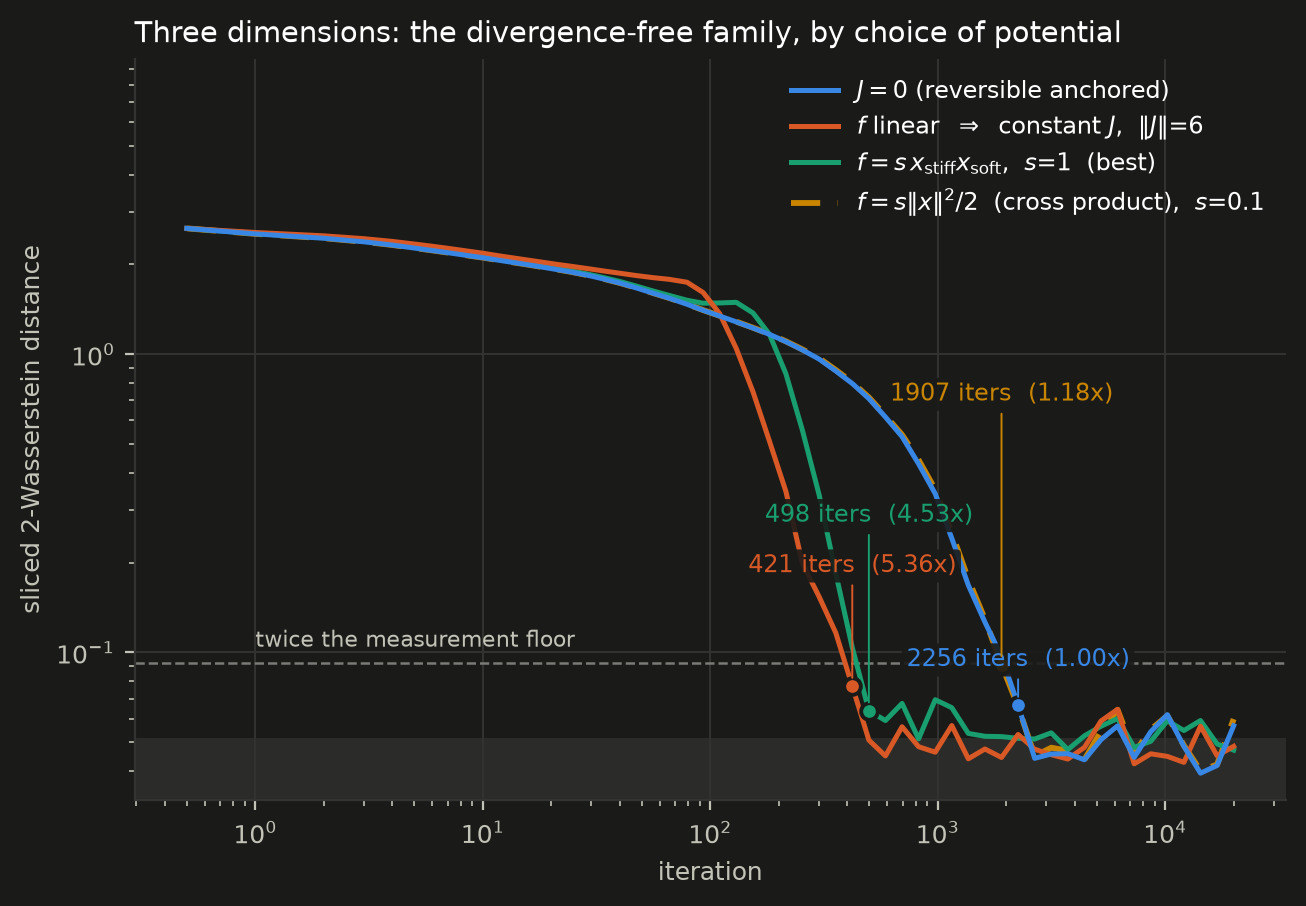
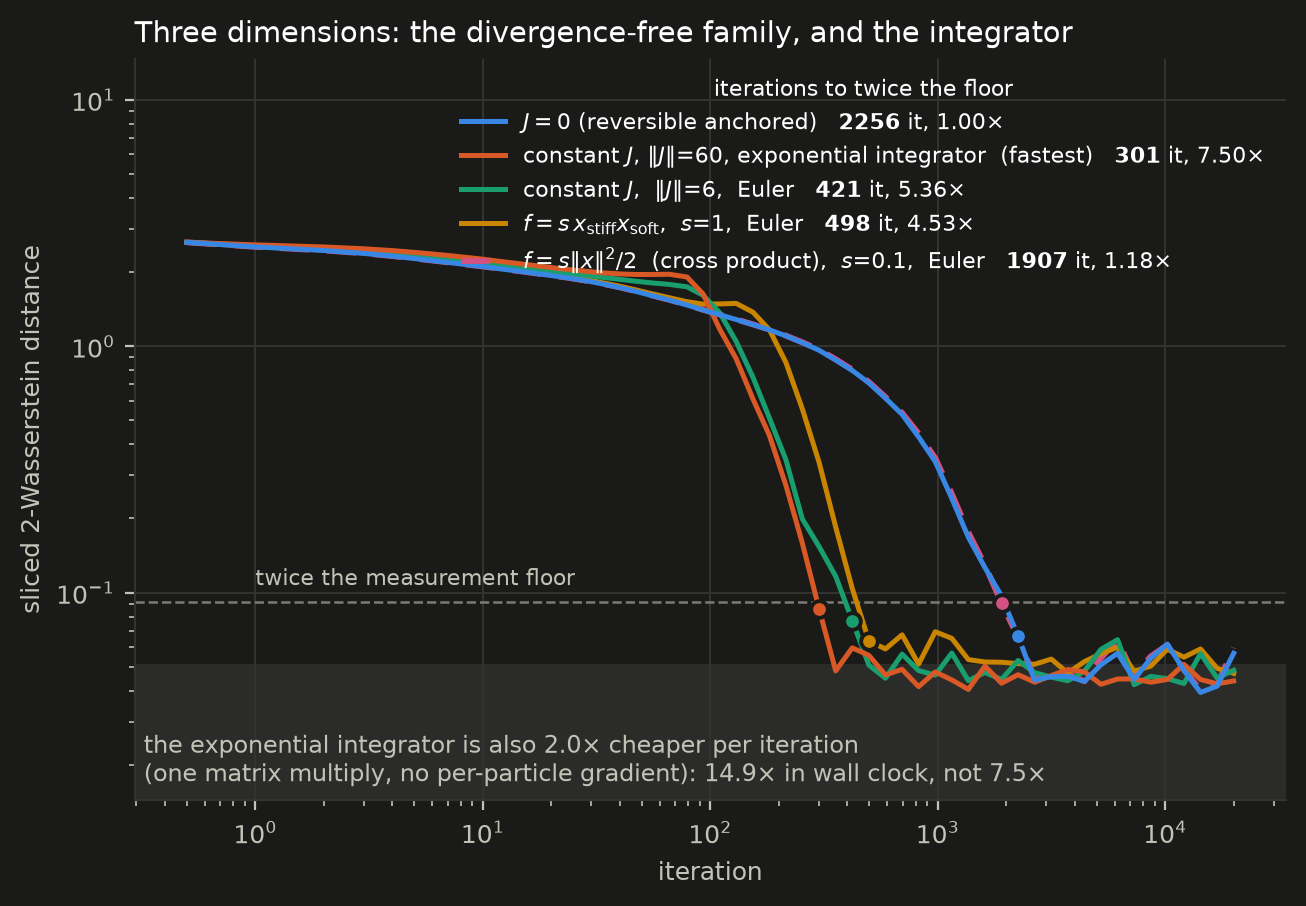
The integrator, not the potential: 14.9x in wall clock, and still monotone
Every d=3 row so far ran the paper's explicit Euler scheme. That was the cap
on the whole comparison. Euler amplifies a rotation by sqrt(1+theta^2) per
step, so a stronger field forces a smaller stepsize and the constant field's
optimum lands at |J| ~ 3.5. The exponential integrator advances the linear
drift outright and pays no such penalty. From the exact second-moment
recursion at 2% covariance bias, with no Monte Carlo in it:

    |J|            3.5     7      12     20     30     60     90
    Euler         3.57x  2.98x  1.94x  0.60x  0.34x    -      -
    Cayley        3.54x  6.21x  7.33x  7.03x  6.26x  4.41x  3.33x
    exponential   3.54x  6.32x  7.74x  8.07x  8.15x  8.19x  8.19x

Euler peaks early and then loses; the exponential integrator plateaus, because
its stepsize is set by the noise treatment alone and stops caring about |J|.

Measured on the same equal-accuracy protocol, and hump-free:

    J = 0, Euler                        2256 it  1.00x   1.037 ms/it   1.00x wall
    constant |J|=6,  Euler  (before)     421 it  5.36x   1.094 ms/it   5.08x wall
    constant |J|=60, exponential         301 it  7.50x   0.522 ms/it  14.88x wall
    f = s x_stiff x_soft, s=1, Euler     498 it  4.53x   1.267 ms/it   3.71x wall

Two gains, the second larger than the first. Fewer iterations, because the
field can be run ten times stronger. And half the cost per iteration: for a
constant field on a log-quadratic target with the canonical anchor the drift
[…]

diff --git a/experiments/exp10_curl_potentials.py b/experiments/exp10_curl_potentials.py
@@ -104,6 +104,15 @@ def main():
                     help="warm-up length for a CONSTANT field, in relaxations of "
                          "the fastest direction; 10 leaves no hump in d=3 and "
                          "costs no iterations")
+    ap.add_argument("--ramp-expm", type=float, default=25.0,
+                    help="warm-up for the constant field under the exponential "
+                         "integrator, which is run much stronger than the Euler "
+                         "one and so has a larger transient")
+    ap.add_argument("--expm-jnorm", type=float, default=60.0,
+                    help="field strength for the exponential integrator. Euler "
+                         "is stepsize-limited and its optimum is |J| ~ 3.5; expm "
+                         "is not, and the exact analysis has it still gaining at "
+                         "|J| = 90")
     ap.add_argument("--ramp-growth", type=float, default=40.0,
                     help="warm-up length for a field whose strength grows with "
                          "|x| (both non-constant potentials here). Measured: at "
@@ -137,10 +146,18 @@ def main():
     print(f"  sliced-W2 floor at n={args.n}: {floor:.4f} +- {fstd:.4f}")
     print(f"  optimal constant field |J| = {nopt:.2f}\n")
 
+    # Warm-up length per field kind, in relaxations of the fastest direction.
+    # A constant field advanced by Euler wants 10; the same field advanced by
+    # the exponential integrator is run an order of magnitude stronger, so its
+    # transient is correspondingly larger and it wants 25; a field whose
+    # strength grows with |x| wants 40 (see the module docstring).
+    RAMP_OF = {"linear": args.ramp, "expm": args.ramp_expm,
+               "sphere": args.ramp_growth, "hyper": args.ramp_growth}
+
     def field(kind, mag):
         if kind == "zero":
             return None
-        if kind == "linear":                       # a constant J
+        if kind in ("linear", "expm"):             # a constant J
             return sf.ConstantSkew(mag * Jopt / nopt)
         if kind == "sphere":                       # f = s |x|^2 / 2
             return GradCurl(lambda x, s=mag: s * x)
@@ -149,7 +166,7 @@ def main():
                                                   + np.outer(x @ e_soft, e_stiff)))
         raise ValueError(kind)
 
-    def make(fld, eta, kind="linear"):
+    def make(fld, eta, kind="linear", integ="euler"):
         # The ramp length is computed from the target's stiff relaxation time,
         # a property of the *linear* drift.  Both non-constant potentials here
         # have grad f linear in x, so their field strength is proportional to
@@ -161,9 +178,9 @@ def main():
         if fld is None:
             sch = None
         else:
-            n_relax = args.ramp if kind == "linear" else args.ramp_growth
+            n_relax = RAMP_OF[kind]
             sch = samplers.warmup_schedule(T, eta, n_relax)
-        return lambda: samplers.field_anchored_step(T, eta, fld, "euler", schedule=sch)
+        return lambda: samplers.field_anchored_step(T, eta, fld, integ, schedule=sch)
 
     def qbias(mk, n=12000, burn=2500, avg=1500, seed=11):
         if args.smoke:
@@ -188,12 +205,13 @@ def main():
     print(f"  calibration: J=0 at eta={eta0:.3e} -> quantile bias {level:.4f}\n")
 
     rows = []
+    COST_ITERS = 400          # enough to time a step without lengthening the run
 
-    def evaluate(label, kind, mag):
+    def evaluate(label, kind, mag, integ="euler"):
         t0 = time.time()
         probe = 4e-4
         for _ in range(14):                        # adaptive: never blame the stepsize
-            b = qbias(make(field(kind, mag), probe, kind))
+            b = qbias(make(field(kind, mag), probe, kind, integ))
             if np.isfinite(b) and b > 0:
                 break
             probe *= 0.35
@@ -202,7 +220,7 @@ def main():
             return
         eta = probe * (level / b)
         for _ in range(6):
-            if np.isfinite(qbias(make(field(kind, mag), eta, kind))):
+            if np.isfinite(qbias(make(field(kind, mag), eta, kind, integ))):
                 break
             eta *= 0.4
 
@@ -219,7 +237,7 @@ def main():
             for r in range(args.reps):
                 x = runner.make_prior("normal10", 3, args.n,
                                       np.random.default_rng(500 + r))
-                st = make(field(kind, mag), eta, kind)()
+                st = make(field(kind, mag), eta, kind, integ)()
                 rr = np.random.default_rng(9000 + r)
                 w, k, blew = [], 0, False
                 for tk in record_at:
@@ -253,38 +271,62 @@ def main():
             eta *= 0.4
             w, div = ensemble(eta)
 
+        # Iterations are only a fair currency if an iteration costs the same.
+        # It does not: for a constant field on a log-quadratic target the whole
+        # drift collapses to one matrix multiply under the exponential
+        # integrator, where Euler recomputes grad U0, the anchor scale and the
+        # diffusion coefficient per particle every step.  Time it so the run
+        # carries both currencies.
+        xc = T.sample(args.n, np.random.default_rng(77))
+        stc = make(field(kind, mag), eta, kind, integ)()
+        rc = np.random.default_rng(78)
+        stc(xc, rc)                                # warm any lazy setup
+        t_cost = time.time()
+        for _ in range(COST_ITERS):
+            xc = stc(xc, rc)
+        ms_iter = (time.time() - t_cost) / COST_ITERS * 1e3
+
         it = np.asarray(record_at)
         ok = np.isfinite(w) & (w <= 2 * floor)
         hit = int(it[np.argmax(ok)]) if ok.any() and div == 0 else -1
         rows.append({"label": label, "kind": kind, "mag": mag, "eta": eta,
+                     "integrator": integ, "ramp": RAMP_OF.get(kind, 0.0),
+                     "ms_per_iter": ms_iter,
                      "eta_equal_accuracy": eta_equal, "eta_ratio": eta / eta_equal,
                      "diverged": div, "reps": args.reps,
                      "iters": hit, "final": float(w[-1]),
                      "w2": np.asarray(w).tolist(), "rec": record_at})
         backed = "" if eta == eta_equal else f" [backed off {eta_equal / eta:.1f}x]"
         print(f"  {label:40s} eta={eta:.2e} iters={hit:6d} final_W2={w[-1]:.4f}"
-              f" diverged={div}/{args.reps}{backed}  ({time.time() - t0:.0f}s)",
-              flush=True)
+              f" diverged={div}/{args.reps} {ms_iter:.3f}ms/it{backed}"
+              f"  ({time.time() - t0:.0f}s)", flush=True)
 
     evaluate("J = 0", "zero", 0.0)
     evaluate(f"f linear  (= constant J), |J|={args.jnorm:g}", "linear", args.jnorm)
+    evaluate(f"f linear, |J|={args.expm_jnorm:g}, exponential integrator",
+             "expm", args.expm_jnorm, integ="expm")
     for s in args.sphere_s:
         evaluate(f"f = |x|^2/2  (yours), s={s:g}", "sphere", s)
     for s in args.hyper_s:
         evaluate(f"f = s x_stiff x_soft, s={s:g}", "hyper", s)
 
-    base = next((r["iters"] for r in rows if r["kind"] == "zero"), -1)
-    if base > 0:
-        print("\n  speed-ups vs J = 0")
+    zero = next((r for r in rows if r["kind"] == "zero"), None)
+    if zero is not None and zero["iters"] > 0:
+        base, base_ms = zero["iters"], zero["ms_per_iter"]
+        print("\n  speed-ups vs J = 0, in iterations and in wall clock")
+        print(f"    {'':40s} {'iters':>8} {'wall':>8}")
         for r in rows:
             if r["iters"] > 0:
-                print(f"    {r['label']:40s} {base / r['iters']:6.2f}x")
+                it_sp = base / r["iters"]
+                wall = it_sp * base_ms / r["ms_per_iter"]
+                print(f"    {r['label']:40s} {it_sp:7.2f}x {wall:7.2f}x")
     path = os.path.join(OUT, "exp10_curl_potentials.json" if not args.smoke
                         else "exp10_smoke.json")
     # the floor and the ramp are needed to read the curves, so they travel with
     # them rather than being hardcoded in the figure
     out = {"meta": {"d": 3, "nu": args.nu, "kappa": args.kappa, "bias": args.bias,
                     "ramp": args.ramp, "ramp_growth": args.ramp_growth,
+                    "ramp_expm": args.ramp_expm, "expm_jnorm": args.expm_jnorm,
                     "jnorm": args.jnorm, "floor": float(floor),
                     "floor_std": float(fstd), "n": args.n, "steps": args.steps,
                     "reps": args.reps},

diff --git a/experiments/make_figures.py b/experiments/make_figures.py
@@ -409,13 +409,16 @@ def fig_curl_potentials(mode):
     meta = blob.get("meta", {}) if isinstance(blob, dict) else {}
     rows = blob["rows"] if isinstance(blob, dict) else blob   # older files are bare lists
     keep = ["J = 0",
+            "f linear, |J|=60, exponential integrator",
             "f linear  (= constant J), |J|=6",
             "f = s x_stiff x_soft, s=1",
             "f = |x|^2/2  (yours), s=0.1"]
     pretty = {keep[0]: "$J = 0$ (reversible anchored)",
-              keep[1]: "$f$ linear  $\\Rightarrow$  constant $J$,  $\\|J\\|$=6",
-              keep[2]: "$f = s\\,x_{\\rm stiff}x_{\\rm soft}$,  $s$=1  (best)",
-              keep[3]: "$f = s\\|x\\|^2/2$  (cross product),  $s$=0.1"}
+              keep[1]: "constant $J$, $\\|J\\|$=60, "
+                       "exponential integrator  (fastest)",
+              keep[2]: "constant $J$,  $\\|J\\|$=6,  Euler",
+              keep[3]: "$f = s\\,x_{\\rm stiff}x_{\\rm soft}$,  $s$=1,  Euler",
+              keep[4]: "$f = s\\|x\\|^2/2$  (cross product),  $s$=0.1,  Euler"}
     sel = [r for k in keep for r in rows if r["label"] == k]
     if len(sel) < 2:
         return
@@ -428,26 +431,21 @@ def fig_curl_potentials(mode):
         it = np.asarray(row["rec"], dtype=float)
         it[0] = max(it[1] * 0.5, 0.5)
         w = np.asarray(row["w2"], dtype=float)
-        # the cross-product curve lies exactly on top of J = 0; dash it so both show
+        # the cross-product curve lies almost exactly on J = 0; dash it so both show
         dashed = "cross product" in pretty[row["label"]]
-        ax.plot(it, w, color=colour, label=pretty[row["label"]], zorder=3 - 0.1 * i,
-                ls=(0, (5, 3)) if dashed else "-", lw=2.1 if dashed else 1.8)
         hit = row["iters"]
+        # The counts go in the legend rather than in callouts on the curve.  On
+        # a log axis the crossings sit 0.2 to 0.8 decades apart while the labels
+        # are wider than that, so every callout layout collides with something.
+        lab = pretty[row["label"]]
+        if hit and hit > 0:
+            lab += f"   $\\bf{{{hit:d}}}$ it, {base / hit:.2f}$\\times$"
+        ax.plot(it, w, color=colour, label=lab, zorder=3 - 0.1 * i,
+                ls=(0, (5, 3)) if dashed else "-", lw=2.1 if dashed else 1.8)
         if hit and hit > 0:
             j = int(np.argmin(np.abs(it - hit)))
             ax.plot([it[j]], [w[j]], "o", color=colour, ms=6,
                     markeredgecolor=p["surface"], markeredgewidth=1.4, zorder=4)
-            sp = base / hit
-            txt = f"{hit:d} iters  ({sp:.2f}x)"
-            # two of these land within a few dozen iterations of each other,
-            # so the rows need more than the text height between them
-            ax.annotate(txt, xy=(it[j], w[j]), xytext=(0, 12 + 27 * i),
-                        textcoords="offset points", ha="center", va="bottom",
-                        color=colour, fontsize=8.5, zorder=5,
-                        arrowprops=dict(arrowstyle="-", color=colour, lw=0.7,
-                                        shrinkA=1, shrinkB=3),
-                        bbox=dict(boxstyle="round,pad=0.2", fc=p["surface"], ec="none",
-                                  alpha=0.9))
     ax.axhspan(0, floor * 1.12, color=p["reference"], alpha=0.18, linewidth=0)
     ax.axhline(2 * floor, color=p["reference"], lw=0.9, ls="--")
     ax.annotate("twice the measurement floor", xy=(1.0, 2 * floor), xytext=(0, 4),
@@ -460,10 +458,27 @@ def fig_curl_potentials(mode):
     ax.set_yscale("log")
     ax.set_xlabel("iteration")
     ax.set_ylabel("sliced 2-Wasserstein distance")
-    ax.set_title("Three dimensions: the divergence-free family, by choice of potential",
+    ax.set_title("Three dimensions: the divergence-free family, and the integrator",
                  loc="left")
-    ax.legend(loc="upper right", fontsize=8.5)
-    ax.set_ylim(top=ax.get_ylim()[1] * 3.0)
+    # Iterations understate the exponential integrator: for a constant field on
+    # a log-quadratic target its whole drift is one matrix multiply, so it is
+    # also about half the cost per iteration.  Put the wall-clock number where
+    # it cannot be missed rather than leaving it in the data file.
+    fast = next((r for r in sel if r.get("integrator") == "expm"), None)
+    zero = next((r for r in sel if r["label"] == "J = 0"), None)
+    if fast and zero and fast.get("ms_per_iter") and zero.get("ms_per_iter"):
+        wall = (zero["iters"] / fast["iters"]) * zero["ms_per_iter"] / fast["ms_per_iter"]
+        ax.text(0.008, 0.015,
+                f"the exponential integrator is also "
+                f"{zero['ms_per_iter'] / fast['ms_per_iter']:.1f}$\\times$ cheaper per "
+                f"iteration\n(one matrix multiply, no per-particle gradient): "
+                f"{wall:.1f}$\\times$ in wall clock, not {zero['iters'] / fast['iters']:.1f}$\\times$",
+                transform=ax.transAxes, fontsize=8.5, va="bottom", ha="left",
+                color=p["text_secondary"])
+    ax.legend(loc="upper right", fontsize=8.0, framealpha=0.93,
+              title="iterations to twice the floor", title_fontsize=8.0)
+    ax.set_ylim(top=ax.get_ylim()[1] * 4.5)
+    ax.set_ylim(bottom=ax.get_ylim()[0] * 0.45)
     print(" ", plotting.finish(fig, os.path.join(FIGS, f"fig11_curl_potentials_{mode}.png")))
 
 

diff --git a/tests/test_state_dependent.py b/tests/test_state_dependent.py
@@ -231,6 +231,25 @@ def test_warmup_removes_the_transient_hump():
     assert warm[-1] < 1.3 * plain[-1]          # and it still converges
 
 
+def test_strong_field_preserves_the_target_under_expm():
+    """|J| = 60 is the recommended d=3 setting, ten times anything else tested.
+
+    A field that strong is where an integrator that mishandles rotation shows
+    it, so the check is that the exponential integrator still leaves the target
+    alone -- started *at* stationarity, so any drift in the variance is the
+    integrator's doing and not an unconverged chain.
+    """
+    t = anisotropic_student_t(3, 6.0, 100.0)
+    J = 60.0 * skew.lnp_optimal(t.Sigma_inv) / np.linalg.norm(skew.lnp_optimal(t.Sigma_inv), 2)
+    x0 = t.sample(200_000, np.random.default_rng(3))
+    truth = np.diag(t.cov())
+    step = samplers.field_anchored_step(t, 6.6e-4, sf.ConstantSkew(J), "expm")
+    res = samplers.simulate(step, x0, 600, np.random.default_rng(4))
+    assert res.diverged_at is None
+    got = res.final_state.var(axis=0)
+    assert np.all(np.abs(got - truth) / truth < 0.12), (got, truth)
+
+
 def test_stream_quadrupole_rewrite_matches_the_stream_form():
     """c = delta e^{U-U0} J0 [F grad U0 - grad F]  is  e^U J0 grad Phi."""
     t = anisotropic_student_t(2, 5.0, 100.0)

diff --git a/skewanchor/samplers.py b/skewanchor/samplers.py
@@ -312,14 +312,23 @@ def field_anchored_step(target, eta, field=None, integrator="euler", n_bins=512,
     if field is None or field.is_constant:
         full = 1.0 if J0 is not None else 0.0
         M_full = _prop(full)
-        counter = {"k": 0}
+        # The propagator depends on the iteration only through the ramp, and the
+        # ramp saturates.  Rebuilding the matrix exponential for the whole run
+        # would charge every iteration for a transient lasting a few hundred, so
+        # once the schedule reaches 1 the constant propagator is reused.
+        state = {"k": 0, "warm": schedule is None}
 
         def step(x, rng):
-            if schedule is None:
+            if state["warm"]:
                 M = M_full
             else:
-                M = _prop(full * float(schedule(counter["k"])))
-                counter["k"] += 1
+                u = float(schedule(state["k"]))
+                state["k"] += 1
+                if u >= 1.0:
+                    state["warm"] = True
+                    M = M_full
+                else:
+                    M = _prop(full * u)
             noise = target.sigma(x)[:, None] * rng.standard_normal(x.shape)
             return x @ M.T + sq * noise
         return step

diff --git a/docs/STATE_DEPENDENT.md b/docs/STATE_DEPENDENT.md
@@ -141,6 +141,9 @@ off (2.5× and 6.2×) until every replication survived. A backed-off row runs at
 *smaller* stepsize than equal accuracy requires, hence more accurately: it is
 charged the extra iterations and given no credit for the extra accuracy.
 
+Every row here runs the paper's explicit Euler scheme, which is what caps them
+all — see § 3b2, where changing only the integrator beats the best of them.
+
 ![curl potentials](../results/figures/fig11_curl_potentials_light.png)
 
 The cross-product curve lies almost exactly on top of $J=0$, which is why it is
@@ -166,7 +169,8 @@ the back-off costs more than the extra rotation returns.
 
 So the conclusion is quantitative rather than qualitative. The best member of
 the three-dimensional curl family we found is still the linear potential — a
-*constant* $J$, at 5.36× — but it leads a tuned state-dependent member
+*constant* $J$, at 5.36× under Euler and 7.50× once it is given the integrator
+it can use (§ 3b2) — but it leads a tuned state-dependent member
 by only 18 %, not by the factor of two it looked like before the ramp and the
 divergence accounting were fixed. State dependence pays much more in two
 dimensions, through the stream construction of § 3, precisely because there the
@@ -195,6 +199,68 @@ between blocks — which is the honest error bar on any single number here.
 Note the dimensions differ: the 29–79× figures elsewhere are $d = 2$ stream
 fields, and are not comparable with any of these. Every number in this section
 is $d = 3$ and like-for-like with every other number in it.
+
+## 3b2. The integrator is worth more than the potential
+
+Everything above runs the explicit Euler scheme of the paper. That is the wrong
+default, and it is what caps the whole $d = 3$ comparison.
+
+Euler amplifies a rotation by $\sqrt{1 + \theta^2}$ per step, so the stronger
+the field the smaller the stepsize that equal accuracy allows, and the constant
+field's optimum lands at $\|J\| \approx 3.5$. The Cayley transform has unit
+modulus on the skew part and the matrix exponential integrates the linear drift
+outright, so neither pays that penalty. From the exact second-moment recursion,
+at 2 % stationary covariance bias — no Monte Carlo in these numbers:
+
+| $\|J\|$ | 3.5 | 7 | 12 | 20 | 30 | 60 | 90 |
+|---|---|---|---|---|---|---|---|
+| Euler | **3.57×** | 2.98× | 1.94× | 0.60× | 0.34× | — | — |
+| Cayley | 3.54× | 6.21× | **7.33×** | 7.03× | 6.26× | 4.41× | 3.33× |
+| exponential | 3.54× | 6.32× | 7.74× | 8.07× | 8.15× | 8.19× | **8.19×** |
+
+Euler peaks early and then *loses*; the exponential integrator climbs to a
+plateau and stays there, because its stepsize is set by the noise treatment
+alone and stops caring about $\|J\|$. The continuous-time rate for such a field
+is 15.7× the reversible one, so the exponential integrator recovers a little
+over half of what the SDE has to offer, and Euler under a quarter.
+
+Measured, at the same equal-accuracy protocol as the table in § 3b:
+
+| method | ramp | rise | iterations | speed-up | ms/iter | **wall clock** |
+|---|---|---|---|---|---|---|
+| $J = 0$, Euler | — | 1.00× | 2256 | 1.00× | 1.037 | 1.00× |
+| constant $\|J\|=6$, Euler | 10 | 1.00× | 421 | 5.36× | 1.094 | 5.08× |
+| **constant $\|J\|=60$, exponential** | **25** | **1.00×** | **301** | **7.50×** | **0.522** | **14.88×** |
+| $f = s\,x_{\rm stiff}x_{\rm soft}$, $s=1$, Euler | 40 | 1.01× | 498 | 4.53× | 1.267 | 3.71× |
+
+Two separate gains, and the second is the larger:
+
+* **Fewer iterations, 7.50× against 5.36×.** The field can be run ten times
+  stronger without the stepsize collapsing.
+* **Cheaper iterations, 2.0× .** For a constant field on a log-quadratic target
+  with the canonical anchor the drift is linear, so the whole step is
+  `x @ M.T` plus noise — one $d\times d$ multiply, with no per-particle
+  gradient, anchor scale or diffusion coefficient. The propagator is built once
+  and reused, including after the warm-up ramp saturates.
+
+Together, **14.9× in wall clock against 5.08×**, and the curve is monotone.
+
+Three cautions. The stronger field has a larger transient, so it needs a
+25-relaxation ramp rather than 10 — at ramp 10 it reaches the floor just as
+fast but rises 1.38× on the way, and at ramp 20 it still rises 1.05×. On three
+disjoint seed sets the ordering holds in every one (6.27×, 6.56×, 5.74× against
+Euler's 5.50×, 5.50×, 4.42× on a grid fine enough to separate them). And the
+exponential integrator does *not* help a reversible sampler: at $J=0$ it needs
+a smaller stepsize for the same bias and its rate is 0.52× Euler's, which the
+halved cost per iteration almost exactly cancels. It pays only against the
+rotation, which is precisely the part Euler gets wrong.
+
+**What it cannot do.** Cayley and the exponential need the drift's linear part
+to be a fixed matrix, so they take a constant or a radially modulated field and
+nothing else. The curl potentials of § 3b are neither, so they are stuck on
+Euler — and that, not the extra conserved quantity, is now the main reason the
+best of them trails. Splitting the exponential reversible part from an explicit
+skew part would give them the same benefit; that is not implemented here.
 
 ## 3c. Two ways to fool yourself, both of which we did
 
